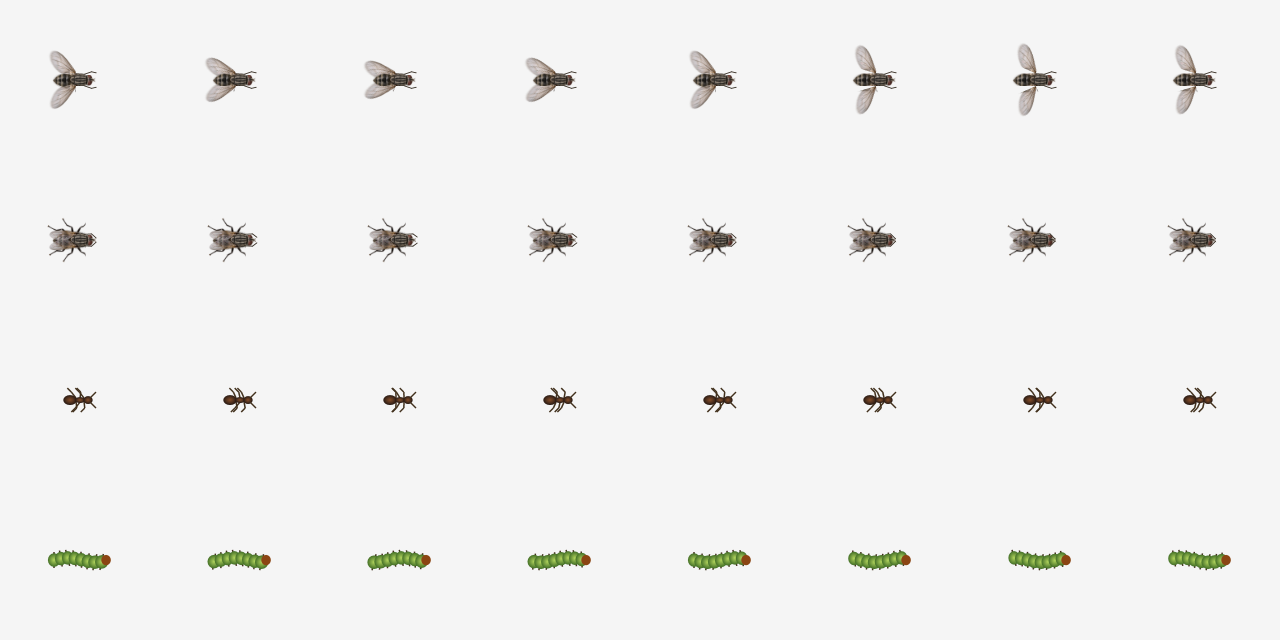
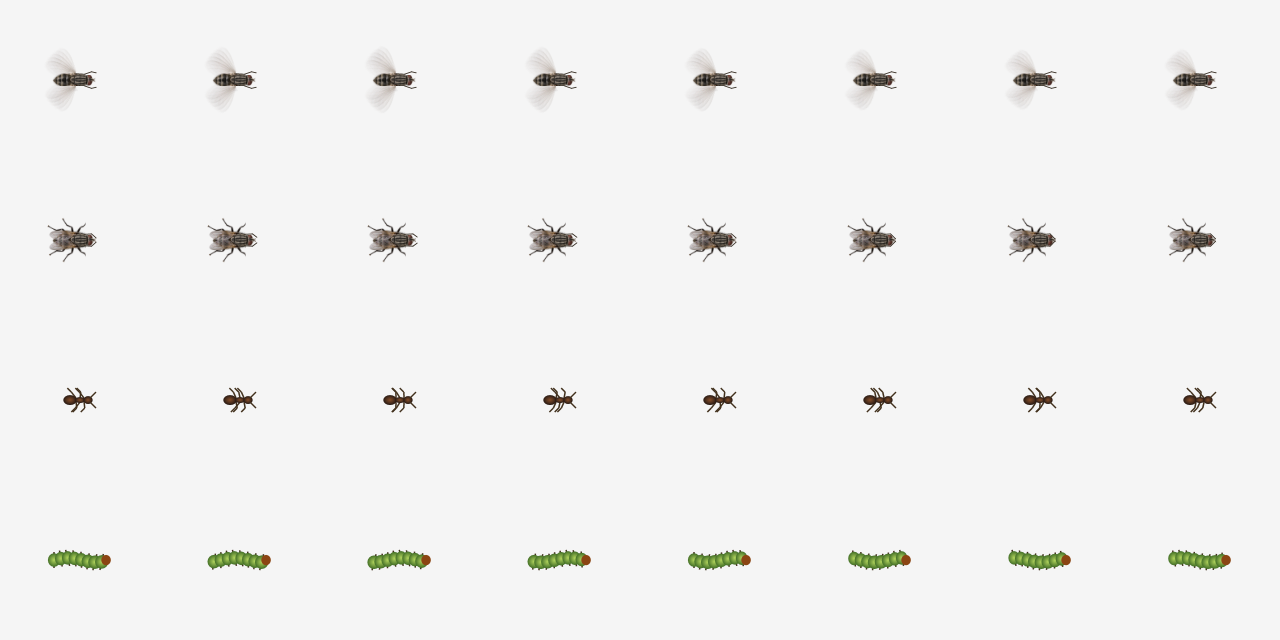
fix: replace circular fly motion with darts hovers and wing blur

diff --git a/src/DesktopLife.Creatures/Fly/FlyBrain.cs b/src/DesktopLife.Creatures/Fly/FlyBrain.cs
@@ -12,7 +12,12 @@ public sealed class FlyBrain(FlyOptions options)
 {
     private bool _initialized;
     private float _angle;
-    private float _noisePhase;
+    private bool _hasWaypoint;
+    private Vector2 _waypoint;
+    private Vector2 _cursorAnchor;
+    private float _hoverRemaining;
+    private float _dashRemaining;
+    private float _dashSpeed;
     private float _panicRemaining;
     private float _panicCooldown;
     private Vector2 _escapeDirection;
@@ -29,7 +34,7 @@ public sealed class FlyBrain(FlyOptions options)
         if (!_initialized)
         {
             _angle = context.Random.NextFloat(0, MathF.Tau);
-            _noisePhase = context.Random.NextFloat(0, MathF.Tau);
+
             _initialized = true;
         }
         var mouseOnScreen = (context.Layout?.Contains(context.Mouse.Position) ?? context.Bounds.ContainsScreenPoint(context.Mouse.Position));
@@ -86,6 +91,9 @@ public sealed class FlyBrain(FlyOptions options)
         }
 
         var distance = Vector2.Distance(position, context.Mouse.Position);
+        var onDesktop = context.Layout?.Contains(position) ?? context.Bounds.ContainsScreenPoint(position);
+        var visibleRoute = onDesktop && (context.Layout == null ||
+            Vector2.DistanceSquared(context.Layout.ConstrainMove(position, context.Mouse.Position), context.Mouse.Position) < 0.01f);
         if (!awakened && (State is FlyState.Approach or FlyState.Orbit) && active && context.Mouse.Speed > options.PanicMouseSpeed && distance < 240 && _panicCooldown <= 0)
         {
             State = FlyState.Panic;
@@ -115,19 +123,49 @@ public sealed class FlyBrain(FlyOptions options)
                 desired = VectorMath.NormalizeOrZero(_departTarget - position) * options.FollowSpeed;
                 break;
             default:
-                if (!awakened && State == FlyState.Approach && distance < 150) State = FlyState.Orbit;
-                if (State == FlyState.Orbit && distance > 260) State = FlyState.Approach;
-                _angle = (_angle + dt * 2.5f) % MathF.Tau;
-                var radius = (options.OrbitMinRadius + options.OrbitMaxRadius) / 2
-                    + MathF.Sin(context.TotalTime * 1.7f + _noisePhase) * (options.OrbitMaxRadius - options.OrbitMinRadius) * 0.28f;
-                var offset = new Vector2(MathF.Cos(_angle), MathF.Sin(_angle)) * radius;
-                var noise = new Vector2(MathF.Sin(context.TotalTime * 9 + _noisePhase), MathF.Cos(context.TotalTime * 7 + _noisePhase)) * 9;
-                var target = context.Mouse.Position + offset + noise;
-                var toTarget = target - position;
-                desired = VectorMath.NormalizeOrZero(toTarget) * MathF.Min(options.FollowSpeed, toTarget.Length() * 6);
-                break;
+                if (!awakened && State == FlyState.Approach && distance < 150 && visibleRoute) State = FlyState.Orbit;
+                if (State == FlyState.Orbit && (distance > 260 || !visibleRoute)) State = FlyState.Approach;
+                if (State == FlyState.Approach)
+                {
+                    _hasWaypoint = false;
+                    desired = VectorMath.NormalizeOrZero(context.Mouse.Position - position) *
+                        MathF.Min(options.FollowSpeed, MathF.Max(0, distance - (visibleRoute ? 70 : 0)) * 8);
+                    break;
+                }
+                // Each dart has a fixed destination. Cursor movement can interrupt a hover,
+                // but a stationary cursor never drives a continuously rotating target.
+                if (!_hasWaypoint || Vector2.DistanceSquared(_cursorAnchor, context.Mouse.Position) > 10000)
+                {
+                    _cursorAnchor = context.Mouse.Position;
+                    _angle = context.Random.NextFloat(0, MathF.Tau);
+                    var radius = context.Random.NextFloat(options.OrbitMinRadius, options.OrbitMaxRadius);
+                    var candidate = _cursorAnchor + new Vector2(MathF.Cos(_angle), MathF.Sin(_angle)) * radius;
+                    _waypoint = context.Layout?.Clamp(candidate) ?? ClampInside(candidate, context.Bounds);
+                    if (context.Layout is { } waypointLayout) _waypoint = waypointLayout.ConstrainMove(_cursorAnchor, _waypoint);
+                    _dashSpeed = options.FollowSpeed * context.Random.NextFloat(0.5f, 1);
+                    _dashRemaining = context.Random.NextFloat(0.4f, 0.7f);
+                    _hoverRemaining = 0;
+                    _hasWaypoint = true;
+                }
+                if (_hoverRemaining > 0)
+                {
+                    _hoverRemaining -= dt;
+                    desired = Vector2.Zero;
+                    if (_hoverRemaining <= 0) _hasWaypoint = false;
+                }
+                else
+                {
+                    _dashRemaining -= dt;
+                    var toTarget = _waypoint - position;
+                    desired = VectorMath.NormalizeOrZero(toTarget) * MathF.Min(_dashSpeed, toTarget.Length() * 18);
+                    if (toTarget.LengthSquared() < 36 || _dashRemaining <= 0)
+                    {
+                        _hoverRemaining = context.Random.NextFloat(0.16f, 0.4f);
+                        desired = Vector2.Zero;
+                    }
+                }                break;
         }
-        velocity = Vector2.Lerp(velocity, desired, 1 - MathF.Exp(-9 * dt));
+        velocity = Vector2.Lerp(velocity, desired, 1 - MathF.Exp(-(State == FlyState.Orbit ? 24 : 12) * dt));
         var next = position + velocity * dt;
         if (State == FlyState.Depart && context.Layout is { } layout && layout.Contains(position))
         {
@@ -140,8 +178,15 @@ public sealed class FlyBrain(FlyOptions options)
                 return new(edge.Point - edge.Inward * 0.01f, Vector2.Zero);
             }
         }
+        if (State == FlyState.Orbit)
+        {
+            var visible = context.Layout?.Clamp(next) ?? ClampInside(next, context.Bounds);
+            if (visible != next) { velocity = (visible - position) / dt; next = visible; _hasWaypoint = false; }
+        }
         return new(next, velocity);
     }
+
+    private static Vector2 ClampInside(Vector2 point, WorldBounds bounds) => new(Math.Clamp(point.X, bounds.Left + 1, bounds.Right - 1), Math.Clamp(point.Y, bounds.Top + 1, bounds.Bottom - 1));
 
     private static Vector2 ChooseExit(Vector2 position, WorldBounds bounds, IRandomSource random)
     {

diff --git a/tests/DesktopLife.Creatures.Tests/FlyFlightRhythmTests.cs b/tests/DesktopLife.Creatures.Tests/FlyFlightRhythmTests.cs
@@ -1,0 +1,78 @@
+using System.Numerics;
+using DesktopLife.Creatures.Fly;
+using DesktopLife.Engine.Math;
+using DesktopLife.Engine.World;
+namespace DesktopLife.Creatures.Tests;
+public class FlyFlightRhythmTests
+{
+    [Fact]
+    public void NearbyFlightContainsDartsAndHoversInsteadOfConstantOrbit()
+    {
+        var fly = new FlyCreature(new(1020, 540));
+        var world = new SimulationWorld(new(0, 0, 1920, 1080), new RandomSource(42), [fly]);
+        var fast = 0; var slow = 0; var clockwise = 0; var counterclockwise = 0;
+        var previous = fly.Position - new Vector2(960, 540);
+        for (var i = 0; i < 1800; i++)
+        {
+            world.Update(1f / 60, new(960, 540));
+            var offset = fly.Position - new Vector2(960, 540);
+            if (i > 120)
+            {
+                if (fly.Velocity.Length() > 150) fast++;
+                if (fly.Velocity.Length() < 20) slow++;
+                var cross = previous.X * offset.Y - previous.Y * offset.X;
+                if (cross > 3) clockwise++;
+                if (cross < -3) counterclockwise++;
+                Assert.InRange(offset.Length(), 0, 180);
+            }
+            previous = offset;
+        }
+        Assert.True(fast > 100 && slow > 100, $"Expected both darts and hovers: fast={fast}, slow={slow}");
+        Assert.True(clockwise > 100 && counterclockwise > 100, "Flight should change direction, not circle one way");
+    }
+    [Fact]
+    public void NearbyFlightStaysOnVisibleDesktopAtCorners()
+    {
+        var fly = new FlyCreature(new(15, 15));
+        var world = new SimulationWorld(new(0, 0, 1920, 1080), new RandomSource(31), [fly]);
+        for (var i = 0; i < 1800; i++)
+        {
+            world.Update(1f / 60, new(3, 3));
+            Assert.True(world.Bounds.ContainsScreenPoint(fly.Position));
+        }
+    }
+    [Fact]
+    public void PanicReturnsFromOutsideWithoutTeleportingOrStalling()
+    {
+        var fly = new FlyCreature(new(15, 200));
+        var bounds = new WorldBounds(0, 0, 800, 600);
+        var random = new RandomSource(7);
+        var outside = false;
+        for (var i = 0; i < 400; i++)
+        {
+            var before = fly.Position;
+            fly.Update(1f / 60, new(new(new(40, 200), Vector2.Zero, i == 1 ? 1600 : 0, i == 1, TimeSpan.Zero), bounds, i / 60f, random));
+            if (!bounds.ContainsScreenPoint(fly.Position)) outside = true;
+            Assert.InRange(Vector2.Distance(before, fly.Position), 0, 12.1f);
+            Assert.InRange(fly.Velocity.Length(), 0, 721);
+        }
+        Assert.True(outside);
+        Assert.True(bounds.ContainsScreenPoint(fly.Position));
+        Assert.Equal(FlyState.Orbit, fly.State);
+    }
+    [Fact]
+    public void FollowsAcrossDisplayGapWithoutPinningOrTeleporting()
+    {
+        var simulation = new DesktopLife.Creatures.Displays.DisplaySimulation(7);
+        simulation.Synchronize([new("left", new(0, 0, 400, 400), true), new("right", new(420, 0, 400, 400))]);
+        simulation.SetPopulation(new(0, 0, 0));
+        var fly = (FlyCreature)simulation.World.Manager.Creatures.Single();
+        fly.Relocate(new(390, 200));
+        for (var i = 0; i < 300; i++)
+        {
+            var before = fly.Position;
+            simulation.Update(1f / 60, new(440, 200));
+            Assert.InRange(Vector2.Distance(before, fly.Position), 0, 12.1f);
+        }
+        Assert.True(fly.Position.X >= 420);
+    }}

diff --git a/src/DesktopLife.Rendering/FlySprite.cs b/src/DesktopLife.Rendering/FlySprite.cs
@@ -28,11 +28,18 @@ internal static class FlySprite
             {
                 for (var side = -1; side <= 1; side += 2)
                 {
-                    dc.PushTransform(new RotateTransform(side * (Math.Sin(phase * Math.PI / 4) * 24), 440, side < 0 ? 420 : 595));
-                    dc.PushClip(new RectangleGeometry(new Rect(0, side < 0 ? 0 : 595, 440, side < 0 ? 420 : 429)));
-                    dc.DrawImage(frame, new Rect(0, 0, 768, 1024));
-                    dc.Pop(); dc.Pop();
-                }
+                    // Integrate several wing positions into each displayed frame, like a
+                    // camera exposure. No single rigid wing swings back and forth slowly.
+                    var hingeY = side < 0 ? 420 : 595;
+                    for (var exposure = -2; exposure <= 2; exposure++)
+                    {
+                        dc.PushOpacity(0.13 + 0.015 * Math.Sin(phase * Math.PI / 4 + exposure));
+                        dc.PushTransform(new ScaleTransform(1, 0.88 + 0.06 * Math.Sin(phase * Math.PI / 4), 440, hingeY));
+                        dc.PushTransform(new RotateTransform(side * exposure * 10, 440, hingeY));
+                        dc.PushClip(new RectangleGeometry(new Rect(0, side < 0 ? 0 : 595, 440, side < 0 ? 420 : 429)));
+                        dc.DrawImage(frame, new Rect(0, 0, 768, 1024));
+                        dc.Pop(); dc.Pop(); dc.Pop(); dc.Pop();
+                    }                }
             }
             // Exclude the original front feet so the articulated feet replace them.
             var body = new GeometryGroup();

diff --git a/src/DesktopLife.Creatures/Fly/FlyCreature.cs b/src/DesktopLife.Creatures/Fly/FlyCreature.cs
@@ -18,7 +18,13 @@ public sealed class FlyCreature : Creature
         var motion = _brain.Update(Position, Velocity, deltaTime, in context);
         Position = motion.Position;
         Velocity = motion.Velocity;
-        if (Velocity.LengthSquared() > 1) Rotation = MathF.Atan2(Velocity.Y, Velocity.X);
+        if (Velocity.LengthSquared() > 35 * 35 && float.IsFinite(deltaTime) && deltaTime > 0)
+        {
+            var heading = MathF.Atan2(Velocity.Y, Velocity.X);
+            var turn = MathF.IEEERemainder(heading - Rotation, MathF.Tau);
+            var maxTurn = 20 * MathF.Min(deltaTime, 0.05f);
+            Rotation += Math.Clamp(turn, -maxTurn, maxTurn);
+        }
         IsVisible = State != FlyState.Offscreen;
     }
 }

diff --git a/tests/DesktopLife.Creatures.Tests/FlyTests.cs b/tests/DesktopLife.Creatures.Tests/FlyTests.cs
@@ -35,14 +35,14 @@ public class FlyTests
     }
 
     [Fact]
-    public void FlyApproachesThenOrbitsAwayFromCursorCenter()
+    public void FlyApproachesThenStaysNearCursorWithIntermittentMovement()
     {
         var fly = new FlyCreature(new(-90, 540));
         for (var i = 0; i < 600; i++) Step(fly);
         Assert.Equal(FlyState.Orbit, fly.State);
         Assert.InRange(Vector2.Distance(Cursor, fly.Position), 25, 150);
         var before = fly.Position;
-        for (var i = 0; i < 20; i++) Step(fly);
+        for (var i = 0; i < 120; i++) Step(fly);
         Assert.True(Vector2.Distance(before, fly.Position) > 10);
     }
 

diff --git a/README.md b/README.md
@@ -6,10 +6,10 @@ Windows 10/11 桌面生物原型，C# / .NET 10 / WPF / Win32。
 
 ## 苍蝇互动
 
-- 苍蝇持续跟随并围绕鼠标飞行，鼠标静止时也不会离开。
+- 苍蝇持续跟随鼠标，在附近短促窜飞、改变方向和短暂停悬，鼠标静止时也不会离开。
 - **单击鼠标左键**指定落点。苍蝇先飞过去，实际落下后静止 **3 秒**，再恢复围绕当前鼠标飞行。
 - 停落期间移动鼠标不会带走苍蝇；再次点击可指定新落点，同一点再次点击会重新计时。
-- 使用写实透明素材，尺寸比上一版缩小 40%。飞行时翅膀独立振动，停落时前足交替搓动；身体锚点保持固定。下图为程序实际尺寸下的两种姿态（左停落、右飞行）。
+- 使用写实透明素材，尺寸比上一版缩小 40%。飞行时翅膀呈半透明振翅模糊，停落时前足交替搓动；身体锚点保持固定。下图为程序实际尺寸下的两种姿态（左停落、右飞行）。
 - 点击通过只读系统钩子观察，不消费或阻止原来的点击；本程序设置窗口内的操作不会指定落点。暂停期间的点击不会在恢复后补执行。
 
 ![写实苍蝇姿态](docs/images/fly-poses.png)
@@ -150,7 +150,7 @@ Overlay 在显示前配置 `WS_EX_LAYERED | WS_EX_TRANSPARENT | WS_EX_NOACTIVATE
 ## 范围与限制
 
 - 支持 Windows x64 多显示器。苍蝇为生成的写实图像，蟑螂仍是程序绘制的占位图形。
-- 已通过 Debug / Release 构建和 93 项 xUnit 测试，以及真实控制窗口、双屏窗口、跨屏渲染、点击降落与暂停/恢复检查。详见 `docs/FLY_LANDING_VERIFICATION.md`；旧版本验证记录作为历史保留。
+- 已通过 Debug / Release 构建和 97 项 xUnit 测试，以及真实控制窗口、双屏窗口、跨屏渲染、点击降落与暂停/恢复检查。详见 `docs/FLY_LANDING_VERIFICATION.md`；旧版本验证记录作为历史保留。
 - 尚未完成稳定 60 FPS 和 500 只群体的性能验收；数量上限是输入约束，不代表任何设备均能流畅运行上限数量。
 - 125% / 150% 已通过离屏渲染检查，插拔与拓扑变化已通过模拟布局的真实窗口检查；实际混合系统缩放、物理拔插、浏览器点击体验和不同 GPU 尚未完整验收。
 - 暂无蚂蚁、开机自启、安装器。

diff --git a/docs/FLY_FLIGHT_RHYTHM_VERIFICATION.md b/docs/FLY_FLIGHT_RHYTHM_VERIFICATION.md
@@ -1,0 +1,8 @@
+# Fly flight rhythm verification
+
+- Replaced continuously rotating mouse-relative orbit target with fixed short-dart destinations, randomized speed/duration and 0.16–0.4 s hover intervals. A cursor displacement over 100 px interrupts the current hover/dart target.
+- Faster steering during nearby darts; turn-rate limited heading and frozen heading at low speed avoid spinning while hovering. Existing Orbit enum remains for compatibility and now represents nearby dart/hover behavior.
+- Flying wings integrate five low-opacity exposures on each side per cached sprite phase; body and resting grooming remain anchored. This is an illustrative desktop animation, not a physical flight simulation.
+- First regression run failed for the old implementation (no low-speed samples; corner flight escaped the screen). New tests cover mixed fast/slow flight, turns in both directions, corners, continuous panic re-entry and following across display gaps.
+- 97 tests passed including existing ten-minute seeded stability and click/landing timer tests. Rendering probes passed at 100/125/150 percent. Native hook and production landing-loop probe passed.
+- Independent review found possible offscreen projection jumps and gap pinning; fixed by staying in Approach until inside with a visible route to the cursor and disabling stand-off braking during re-entry. Added both regressions with per-frame displacement/speed bounds.
